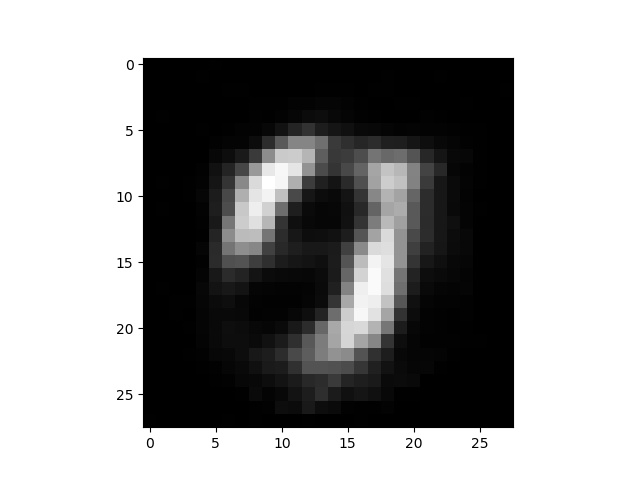
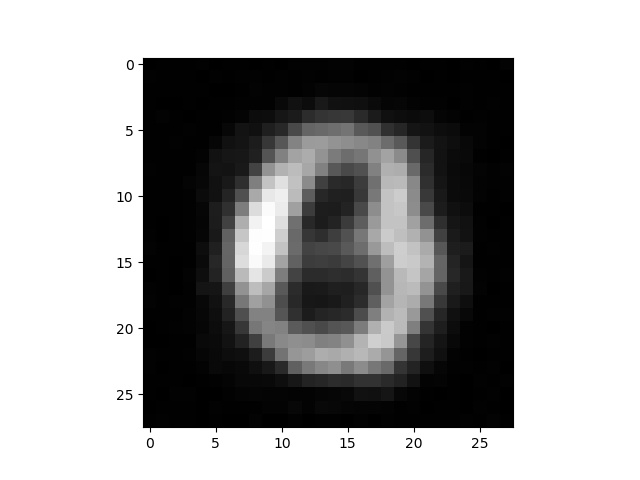
changed power in algo 2

Changed region(s): [[0.3438, 0.2188, 0.7188, 0.8438]]

diff --git a/algorithm1.py b/algorithm1.py
@@ -162,7 +162,6 @@ def find_jacobian(model, z1): #Jh
 
 def find_jacobian_1(model, z1): #Jg
 	z = z1
-	#print(z.size())
 	dec = model.decode(z)
 	jacobian = torch.FloatTensor(784,20).zero_()
 	for j in range(784):
@@ -173,7 +172,7 @@ def find_jacobian_1(model, z1): #Jg
 		z.grad.data.zero_()
 	return jacobian
 
-T = 6
+T = 3
 epsilon = 9
 z_collection = []
 delta_e = torch.FloatTensor(20,784).zero_()
@@ -223,10 +222,11 @@ def sum_energy_1(model):
 
 def make_image(z,name):
     #print(z)
+    z = abs(z)
     x = model.decode(Variable(z))
     x = x.view(28,28)
     img = x.data.numpy()
-    print(x)
+    #print(x)
     plt.imshow(img, cmap = 'gray', interpolation = 'nearest')
     plt.savefig('./' + name + '.jpg')
 
@@ -246,7 +246,7 @@ def main1(model,z0,zt):
     zt = zt.data
     z_collection.append(zt)
     j=0
-    print(sum_energy_1(model))
+    #print(sum_energy_1(model))
     while (sum_energy_1(model) > epsilon):
     	print(sum_energy_1(model))
     	for i in range(1,T-1):

diff --git a/algorithm2.py b/algorithm2.py
@@ -32,7 +32,7 @@ def find_v0(z0):
 	mu = torch.zeros(20,1)
 	sigma_np = sigma.numpy()
 	det = np.linalg.det(sigma_np)
-	c = 1.0 / (math.sqrt(2 * math.pi * det)) 
+	c = 1.0 / ((math.pow(2*math.pi,10))*(math.sqrt(det))) 
 	a = torch.exp(torch.mm(torch.t(z),z))
 	latent_space = (a * c)
 	latent_space.backward()
@@ -69,8 +69,6 @@ def main2(z_collection):
 	ut = u[len(u) - 1]
 	vt_ = find_jacobian(model, Variable(z_collection[len(z_collection) - 1],requires_grad=True))
 	vt = torch.mm(vt_, ut)
-	print(v0)
-	print(z_collection[0])
 	#make_image(vt.view(20),"algo2_final_latentspace")
 	make_image((abs)(v0.view(20)),"algo2_initial_latentspace")
 	make_image(z_collection[0].view(20), "algo2_1")

diff --git a/PCA.py b/PCA.py
@@ -18,13 +18,10 @@ def PCA(U, sigma, vh, x1):
 		x11 = torch.mm(torch.mm(U, sigma), vh)
 		new1 = (abs(x1 - x11)) / ((abs)(x1))
 		new_  = torch.mean(new1)*100
-		#print(new_)
-		#print("yoyo_new:",j,new_.data)
 		j+=1
 		if(new_<y):
 			y = new_
 			x2 = x11
-	#print(x2.size())
 	return x2, U, sigma, vh
 
 def reduction(U, sigma, vh, x1):
@@ -37,10 +34,8 @@ def reduction(U, sigma, vh, x1):
 	for i in range(20):
 		z += sigma[i][i]
 		x = (1.0*(z*100))/y
-		#print(x)
 		if(x>=90):
 			index = i
-			#print(index)
 			break
 	if(index!=0):
 		U = U[:784,:index]

diff --git a/algorithm3.py b/algorithm3.py
@@ -75,7 +75,6 @@ def main3(z0, u0):
 		sigma = make_sigma(sigma)
 		U, sigma, vh, jgg = reduction(U, sigma, vh, Jg)
 		uiplus1 = (torch.mm(torch.mm(U, U.t()),u[len(u) - 1])).view(784,1)
-		#ui = torch.mm(torch.mm(U, U.t()),u[len(u) - 1].view(784,1))
 		uiplus1 = (find_mod(u[len(u) - 1]) / find_mod(uiplus1)) * uiplus1
 		u.append(uiplus1)
 		z.append(ziplus1)
